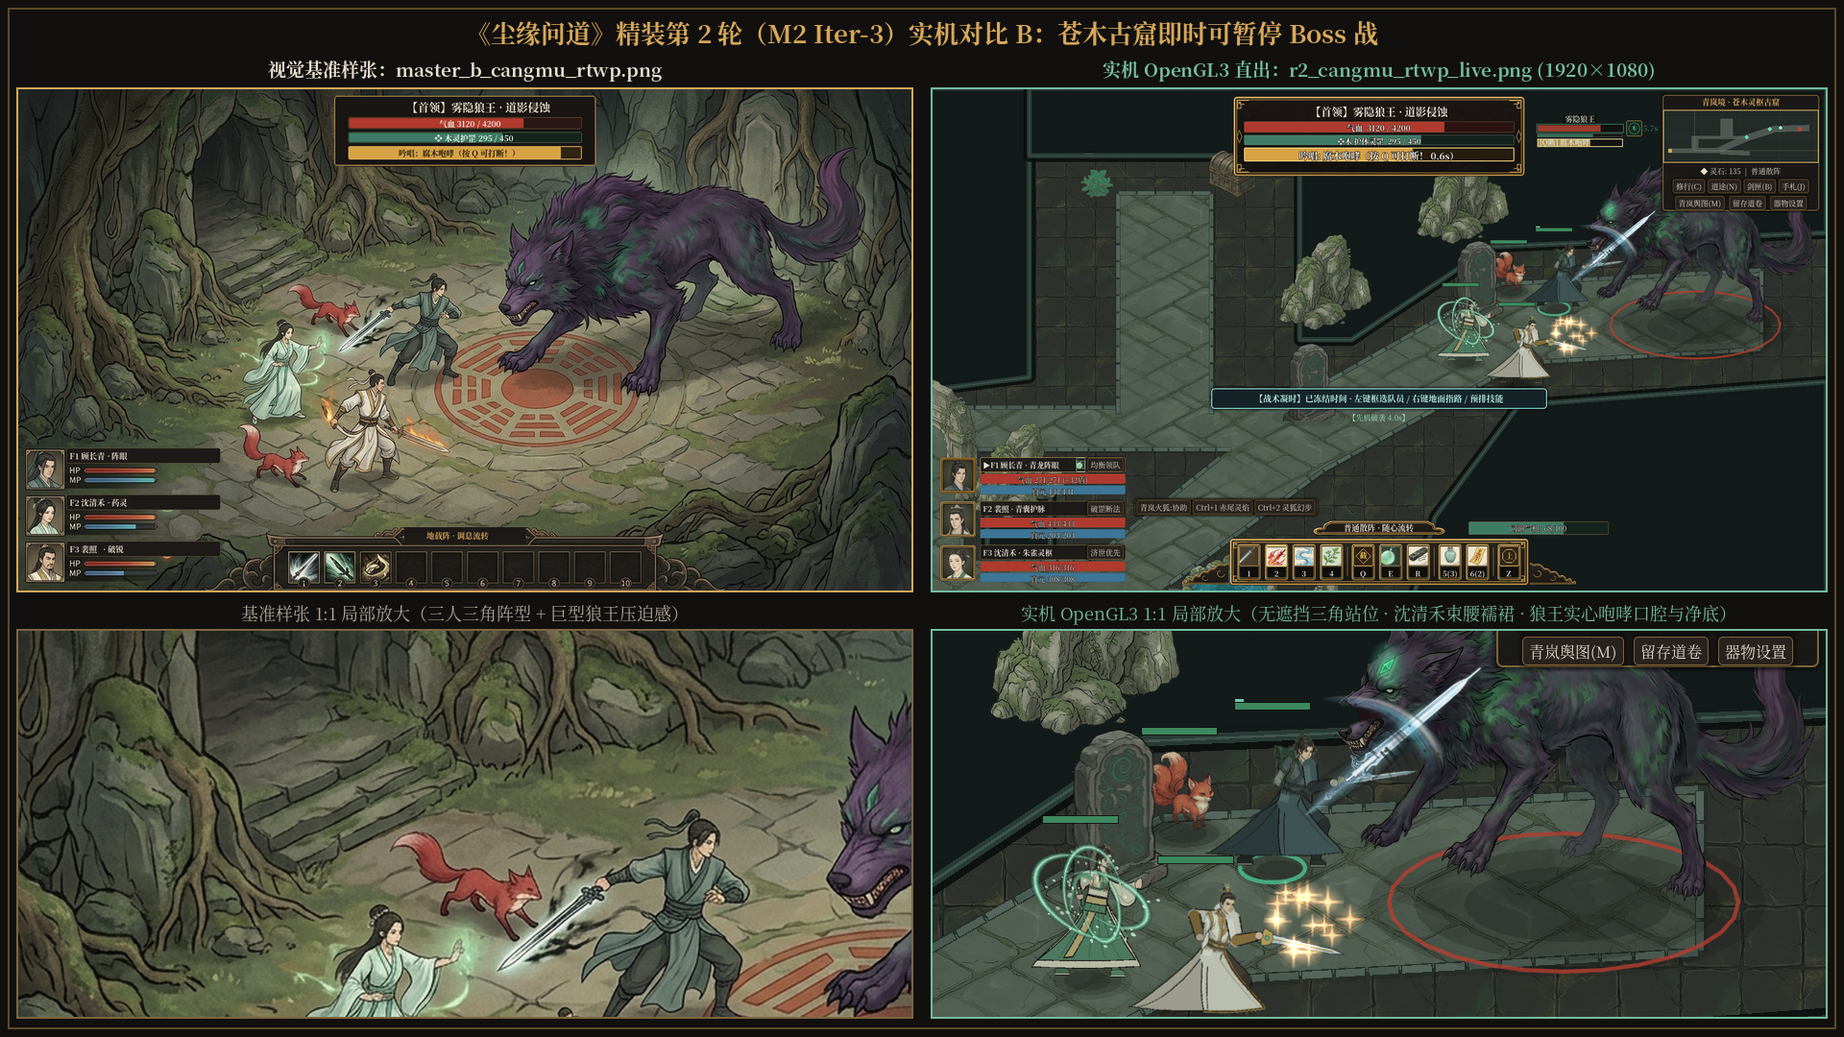
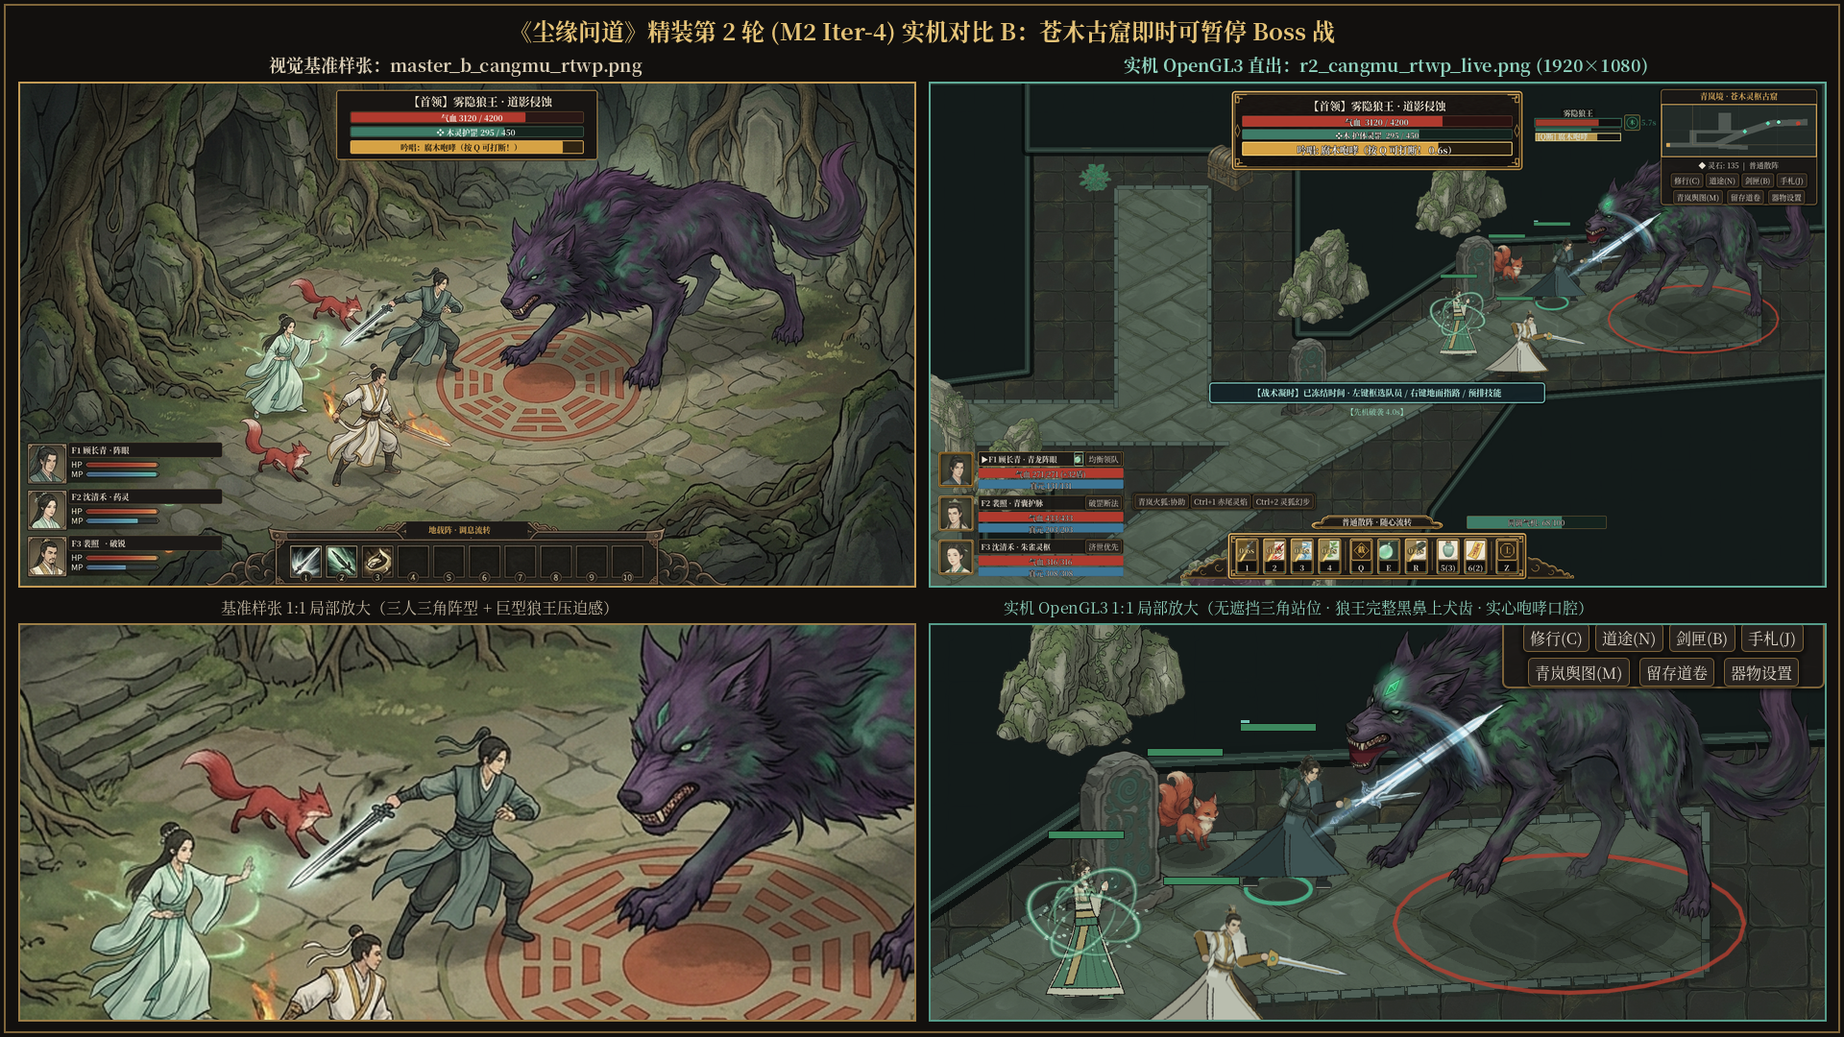
fix(r2): preserve Wolf King black nose & upper canines on cranium, seal roaring oral cavity, and remove Pei cape pinholes

diff --git a/tools/build_polish_r2_actors.py b/tools/build_polish_r2_actors.py
@@ -263,14 +263,19 @@ def segment_wolf_king_parts() -> dict[str, tuple[np.ndarray, tuple[float, float]
     chroma = arr.max(axis=2) - arr.min(axis=2)
 
     # Protect legitimate bright anatomical features inside the head:
-    # 1. Glowing pale-jade eye sclera (x: 1158..1188, y: 376..402)
+    # 1. Glowing pale-jade near & far eye sclerae (near: 1158..1188, 376..402; far: 1230..1239, 378..391)
     # 2. Glowing emerald forehead shard (x: 1184..1220, y: 314..368)
-    # 3. Ivory fangs & teeth ROI (x: 1135..1275, y: 420..520) inside the snout/jaw ink contour
+    # 3. Exact ivory fangs & teeth polygon inside the snout/jaw ink contour (zero exterior chin rim!)
     protect_eye_shard = np.zeros((H, W), dtype=bool)
     protect_eye_shard[376:402, 1158:1188] = True
+    protect_eye_shard[378:391, 1230:1239] = True
     protect_eye_shard[314:368, 1184:1220] = True
-    protect_fangs = np.zeros((H, W), dtype=bool)
-    protect_fangs[420:520, 1135:1275] = True
+    fang_poly_u8 = np.zeros((H, W), dtype=np.uint8)
+    cv2.fillPoly(fang_poly_u8, [np.array([
+        (1158, 439), (1188, 446), (1212, 472), (1250, 475),
+        (1247, 487), (1237, 495), (1200, 495), (1175, 476), (1158, 456),
+    ], dtype=np.int32)], 255)
+    protect_fangs = fang_poly_u8 > 0
 
     # 1a. Outer studio background: keep strict diff<24.5 inside mouth ROI so exterior air around snout is stripped
     #     without breaching tooth ink lines, while stripping wider pale halo (luma>184 & chroma<28) everywhere else!
@@ -351,21 +356,32 @@ def segment_wolf_king_parts() -> dict[str, tuple[np.ndarray, tuple[float, float]
         [(1082, 695), (980, 558)],
     ], 12), 4.0)
 
-    # Extend m_jaw & m_head past x=1340 AND extend m_head upper neck boundary up to y=110
-    # so 100% of upper dorsal neck ruff & snout/fangs are captured with ZERO dorsal neck V-notches!
+    # True anatomical mouth parting line strictly BELOW black nose (x=1225..1266, y=440..479) & upper canines (y=444..490)!
     m_jaw = poly_mask(sample_bezier_chain([
-        [(1122, 434), (1188, 428), (1275, 462)],
-        [(1275, 462), (1270, 526)],
-        [(1270, 526), (1132, 522)],
-    ], 10), 2.2)
+        [(1134, 452), (1162, 458), (1184, 473), (1205, 489)],
+        [(1205, 489), (1220, 486), (1252, 485)],
+        [(1252, 485), (1256, 522)],
+        [(1256, 522), (1192, 525), (1132, 514)],
+        [(1132, 514), (1134, 452)],
+    ], 12), 1.4)
+    m_jaw[:445, :] = 0.0
+
+    m_jaw_cut = poly_mask(sample_bezier_chain([
+        [(1134, 454), (1162, 460), (1184, 475), (1205, 491)],
+        [(1205, 491), (1220, 487), (1254, 486)],
+        [(1254, 486), (1258, 526)],
+        [(1258, 526), (1192, 528), (1130, 516)],
+        [(1130, 516), (1134, 454)],
+    ], 12), 1.0)
+    m_jaw_cut[:446, :] = 0.0
 
     m_shard = poly_mask([(1186, 314), (1216, 314), (1220, 366), (1184, 366)], 1.6)
 
     m_head = poly_mask(sample_bezier_chain([
         [(1012, 110), (1340, 110)],
-        [(1340, 110), (1340, 494)],
-        [(1340, 494), (1235, 484), (1186, 446)],
-        [(1186, 446), (1120, 456), (1008, 436)],
+        [(1340, 110), (1340, 504)],
+        [(1340, 504), (1276, 504), (1212, 506), (1165, 484)],
+        [(1165, 484), (1120, 458), (1008, 436)],
         [(1008, 436), (998, 345), (1002, 225), (1012, 110)],
     ], 16), 5.5)
 
@@ -430,14 +446,14 @@ def segment_wolf_king_parts() -> dict[str, tuple[np.ndarray, tuple[float, float]
         torso_a = np.maximum(torso_a, hull_torso * 248.0)
     torso_a[torso_a < 18.0] = 0.0
 
-    # Head cranium: clip dark_maw strictly to a tight curved upper-palate shadow behind upper teeth (never overhanging air!)
+    # Head cranium retains 100% of black canine nose, upper lip, and upper canines; lower_jaw carries ONLY lower mandible & lower teeth!
     head_rgb = rgba[..., :3].copy()
-    head_a = rgba[..., 3].astype(np.float32) * m_head * np.clip(1.0 - m_jaw, 0.0, 1.0)
+    head_a = rgba[..., 3].astype(np.float32) * m_head * np.clip(1.0 - m_jaw_cut, 0.0, 1.0)
     head_a[head_a < 16.0] = 0.0
     mouth_interior = poly_mask(sample_bezier_chain([
-        [(1148, 420), (1195, 422), (1236, 438)],
-        [(1236, 438), (1196, 445), (1148, 440)],
-    ], 10), 2.8)
+        [(1156, 442), (1196, 458), (1240, 476)],
+        [(1240, 476), (1196, 472), (1156, 452)],
+    ], 10), 2.2)
     dark_maw = np.zeros_like(rgba)
     dark_maw[..., 0] = 48
     dark_maw[..., 1] = 22
@@ -447,6 +463,15 @@ def segment_wolf_king_parts() -> dict[str, tuple[np.ndarray, tuple[float, float]
     maw_under = dark_maw.copy()
     alpha_over_np(maw_under, head_rgba)
     head_rgba = keep_largest_alpha_cc(clean_zero_alpha(maw_under), 12)
+
+    jaw_rgba = keep_largest_alpha_cc(
+        clean_zero_alpha(np.concatenate([rgba[..., :3], np.clip(rgba[..., 3].astype(np.float32) * m_jaw, 0, 255).astype(np.uint8)[..., None]], axis=2)),
+        10,
+    )
+    head_luma_chk = 0.299 * head_rgba[..., 0].astype(np.float32) + 0.587 * head_rgba[..., 1].astype(np.float32) + 0.114 * head_rgba[..., 2].astype(np.float32)
+    nose_opaque_dark = int(((head_rgba[445:476, 1230:1262, 3] >= 240) & (head_luma_chk[445:476, 1230:1262] < 85.0)).sum())
+    assert nose_opaque_dark >= 600, f"head_cranium lost black canine nose tip in [1230..1262, 445..476]: {nose_opaque_dark}px"
+    assert int(jaw_rgba[:445, :, 3].max()) == 0, f"lower_jaw bleeds into upper snout above y=445: max_alpha={int(jaw_rgba[:445, :, 3].max())}"
 
     def make_part(
         mask_f: np.ndarray,
@@ -480,7 +505,7 @@ def segment_wolf_king_parts() -> dict[str, tuple[np.ndarray, tuple[float, float]
         "hind_leg_near": make_part(m_hind_near, (468.0, 428.0), soften_top_px=16),
         "fore_leg_near": make_part(m_fore_near, (852.0, 432.0), soften_top_px=16),
         "head_cranium": make_part(np.ones((H, W), dtype=np.float32), (1076.0, 342.0), head_rgba),
-        "lower_jaw": make_part(m_jaw, (1134.0, 444.0)),
+        "lower_jaw": make_part(np.ones((H, W), dtype=np.float32), (1142.0, 456.0), jaw_rgba),
         "forehead_shard": make_part(m_shard, (1202.0, 340.0)),
     }
 
@@ -561,7 +586,7 @@ def render_wolf_king_cell(
         uy = (ry - 342.0) * bsy * sc_h[1]
         return (base_head[0] + ux * math.cos(rr) - uy * math.sin(rr), base_head[1] + ux * math.sin(rr) + uy * math.cos(rr))
 
-    p_jaw = head_rel(1134.0, 444.0, p_head, head_ang)
+    p_jaw = head_rel(1142.0, 456.0, p_head, head_ang)
     p_shard = head_rel(1202.0, 340.0, p_head, head_ang)
 
     def place(name: str, dst_pt: tuple[float, float], ang: float, sc_mult: tuple[float, float] = (1.0, 1.0), rgb_m: tuple[float, float, float] = (1.0, 1.0, 1.0), a_m: float = 1.0) -> None:
@@ -593,50 +618,56 @@ def render_wolf_king_cell(
         shade_m: float = 1.0,
     ) -> None:
         """
-        Draws a solid curved dark crimson-umber oral cavity bridging `head_cranium` upper palate
-        and rotated `lower_jaw` whenever `jaw_ang > 3.0`, composited underneath upper/lower fangs.
+        Draws a full-span curved dark crimson-umber oral cavity + tongue tucked 8-12px inside
+        `head_cranium` and rotated `lower_jaw` out behind the front canines (zero front cleft, zero overhang).
         """
-        if j_open_d <= 3.0:
+        if j_open_d <= 0.5:
             return
         j_tot_rad = math.radians(h_ang_d + j_open_d)
 
         def jaw_rel(rx: float, ry: float) -> tuple[float, float]:
-            ux = (rx - 1134.0) * bsx * sc_h[0]
-            uy = (ry - 444.0) * bsy * sc_h[1]
+            ux = (rx - 1142.0) * bsx * sc_h[0]
+            uy = (ry - 456.0) * bsy * sc_h[1]
             return (
                 base_jaw_pt[0] + ux * math.cos(j_tot_rad) - uy * math.sin(j_tot_rad),
                 base_jaw_pt[1] + ux * math.sin(j_tot_rad) + uy * math.cos(j_tot_rad),
             )
 
-        u0 = head_rel(1136.0, 430.0, base_head_pt, h_ang_d, sc_h)
-        u1 = head_rel(1184.0, 435.0, base_head_pt, h_ang_d, sc_h)
-        u2 = head_rel(1224.0, 452.0, base_head_pt, h_ang_d, sc_h)
-        l2 = jaw_rel(1218.0, 484.0)
-        l1 = jaw_rel(1182.0, 475.0)
-        l0 = jaw_rel(1136.0, 454.0)
-        # Concave cheek/throat arch recessed slightly behind front canines so zero maw overhangs air
-        throat_in = (
-            0.5 * (u2[0] + l2[0]) - 0.18 * (u2[0] - u0[0]),
-            0.5 * (u2[1] + l2[1]),
-        )
+        u0 = head_rel(1140.0, 444.0, base_head_pt, h_ang_d, sc_h)
+        u1 = head_rel(1196.0, 464.0, base_head_pt, h_ang_d, sc_h)
+        u2 = head_rel(1248.0, 477.0, base_head_pt, h_ang_d, sc_h)
+        l2 = jaw_rel(1244.0, 488.0)
+        l1b = jaw_rel(1218.0, 502.0)
+        l1 = jaw_rel(1194.0, 492.0)
+        l0b = jaw_rel(1170.0, 471.0)
+        l0 = jaw_rel(1140.0, 459.0)
+        throat_in = (0.5 * (u2[0] + l2[0]), 0.5 * (u2[1] + l2[1]))
 
         maw_im = Image.new("RGBA", (W2, H2), (0, 0, 0, 0))
         md = ImageDraw.Draw(maw_im)
         maw_pts = sample_bezier_chain([
             [u0, u1, u2],
             [u2, throat_in, l2],
-            [l2, l1, l0],
+            [l2, l1b, l1],
+            [l1, l0b, l0],
             [l0, u0],
-        ], 12)
-        c_outer = (int(44 * shade_m), int(18 * shade_m), int(24 * shade_m), 255)
-        c_inner = (int(74 * shade_m), int(26 * shade_m), int(34 * shade_m), 245)
+        ], 14)
+        c_outer = (int(46 * shade_m), int(18 * shade_m), int(24 * shade_m), 255)
+        c_mid = (int(68 * shade_m), int(24 * shade_m), int(32 * shade_m), 255)
+        c_tongue = (int(96 * shade_m), int(36 * shade_m), int(44 * shade_m), 255)
         md.polygon(maw_pts, fill=c_outer, outline=(22, 12, 16, 255))
-        # Subtle inner crimson tongue/palate ridge inside deep maw
-        t_pts = sample_bezier_chain([
-            [l0, ((l0[0] + l1[0]) * 0.5, (l0[1] + l1[1]) * 0.5 - 4.0), ((l1[0] + l2[0]) * 0.5, (l1[1] + l2[1]) * 0.5 - 3.0)],
-            [((l1[0] + l2[0]) * 0.5, (l1[1] + l2[1]) * 0.5 - 3.0), l1, l0],
+        m_in_pts = sample_bezier_chain([
+            [((u0[0] + l0[0]) * 0.5, (u0[1] + l0[1]) * 0.5), ((u1[0] + l1[0]) * 0.5, (u1[1] + l1[1]) * 0.5 - 3.0), (throat_in[0] - 5.0, throat_in[1])],
+            [(throat_in[0] - 5.0, throat_in[1]), l1, ((u0[0] + l0[0]) * 0.5, (u0[1] + l0[1]) * 0.5)],
         ], 10)
-        md.polygon(t_pts, fill=c_inner)
+        md.polygon(m_in_pts, fill=c_mid)
+        t_tip = (0.35 * u2[0] + 0.65 * l2[0] - 4.0, 0.35 * u2[1] + 0.65 * l2[1] - 2.0)
+        t_pts = sample_bezier_chain([
+            [l0, ((l0[0] + l1[0]) * 0.5, (l0[1] + l1[1]) * 0.5 - 5.0), t_tip],
+            [t_tip, l1b, l1],
+            [l1, l0b, l0],
+        ], 10)
+        md.polygon(t_pts, fill=c_tongue)
         alpha_over_np(canvas, np.asarray(maw_im))
 
     if is_down:
@@ -672,7 +703,7 @@ def render_wolf_king_cell(
         ne_head_pt = (p_head[0] - 28.0, p_head[1] - 24.0)
         ne_head_ang = head_ang - 10.0
         ne_head_sc = (0.88, 0.90)
-        ne_jaw_pt = head_rel(1134.0, 444.0, ne_head_pt, ne_head_ang, ne_head_sc)
+        ne_jaw_pt = head_rel(1142.0, 456.0, ne_head_pt, ne_head_ang, ne_head_sc)
         place("fore_leg_far", (p_ff[0] + ff_off[0] - 18.0, p_ff[1] + ff_off[1] - 24.0), float(pose.get("ff_ang", 0.0)) - 6.0, sc_mult=(0.90, 0.90), rgb_m=(0.76, 0.77, 0.82))
         draw_open_oral_cavity(ne_head_pt, ne_jaw_pt, ne_head_ang, jaw_ang * 0.65, ne_head_sc, 0.84)
         place("lower_jaw", ne_jaw_pt, ne_head_ang + jaw_ang * 0.65, sc_mult=ne_head_sc, rgb_m=(0.82, 0.82, 0.86))
@@ -764,8 +795,8 @@ def build_wolf_king_sheet() -> dict[str, Any]:
 
     # Row 4: attack_1 (5 frames — rearing razor-claw cleave; dorsal mane <= 368px < head_top_px=372!)
     atk1 = [
-        {"root_dx": -12.0, "root_dy": -8.0, "torso_ang": -13.5, "fn_ang": -52.0, "fn_dx": 14.0, "fn_dy": -34.0, "ff_ang": -18.0, "ff_dy": -14.0, "hn_ang": 10.0, "head_ang": -8.0, "jaw_ang": 16.0, "tail_ang": 16.0, "shard_glow": 0.55},
-        {"root_dx": -4.0, "root_dy": -11.0, "torso_ang": -15.0, "fn_ang": -64.0, "fn_dx": 22.0, "fn_dy": -44.0, "ff_ang": -24.0, "ff_dy": -18.0, "hn_ang": 14.0, "head_ang": -6.0, "jaw_ang": 22.0, "tail_ang": 20.0, "shard_glow": 0.75},
+        {"root_dx": -12.0, "root_dy": -8.0, "torso_ang": -13.5, "fn_ang": -44.0, "fn_dx": 14.0, "fn_dy": -24.0, "ff_ang": 4.0, "ff_dy": -2.0, "hn_ang": 10.0, "head_ang": -8.0, "jaw_ang": 16.0, "tail_ang": 16.0, "shard_glow": 0.55},
+        {"root_dx": -4.0, "root_dy": -11.0, "torso_ang": -15.0, "fn_ang": -48.0, "fn_dx": 20.0, "fn_dy": -24.0, "ff_ang": 6.0, "ff_dy": -2.0, "hn_ang": 14.0, "head_ang": -6.0, "jaw_ang": 22.0, "tail_ang": 20.0, "shard_glow": 0.75},
         {"root_dx": 20.0, "root_dy": -4.0, "torso_ang": 7.5, "fn_ang": -28.0, "fn_dx": 38.0, "fn_dy": -14.0, "fn_scale": (1.08, 1.04), "ff_ang": 16.0, "hn_ang": -22.0, "head_ang": 6.0, "head_dx": 12.0, "jaw_ang": 18.0, "tail_ang": -12.0, "shard_glow": 0.65},
         {"root_dx": 14.0, "root_dy": 0.0, "torso_ang": 9.0, "fn_ang": 12.0, "fn_dx": 18.0, "ff_ang": 10.0, "hn_ang": -16.0, "head_ang": 4.0, "jaw_ang": 8.0, "tail_ang": -8.0, "shard_glow": 0.35},
         {"root_dx": 4.0, "root_dy": -1.0, "torso_ang": 3.0, "fn_ang": 4.0, "hn_ang": -6.0, "head_ang": 1.0, "jaw_ang": 4.0, "tail_ang": 2.0, "shard_glow": 0.22},
@@ -882,7 +913,7 @@ def extract_party_graft_parts() -> dict[str, dict[str, Any]]:
     pf_rgb = np.asarray(Image.open(os.path.join(REPO_ROOT, "assets_src/sprites/char_ref_party_pets_raw.jpg")).convert("RGB"))
     pb_rgb = np.asarray(Image.open(os.path.join(REPO_ROOT, "assets_src/sprites/char_ref_party_back_raw.jpg")).convert("RGB"))
 
-    def matte_plate(arr: np.ndarray) -> np.ndarray:
+    def matte_plate(arr: np.ndarray, kill_interior_pockets: bool = True) -> np.ndarray:
         af = arr.astype(np.float32)
         bg = np.median(np.concatenate([af[0], af[-1], af[:, 0], af[:, -1]], axis=0), axis=0)
         bc = ((np.linalg.norm(af - bg, axis=2) < 22.5) & (af.mean(axis=2) > 198.0)).astype(np.uint8)
@@ -890,11 +921,12 @@ def extract_party_graft_parts() -> dict[str, dict[str, Any]]:
         ext = set(lbl[0, :]) | set(lbl[-1, :]) | set(lbl[:, 0]) | set(lbl[:, -1])
         ext.discard(0)
         fg = (~np.isin(lbl, list(ext))).astype(np.float32)
-        for lid in range(1, nl):
-            if lid not in ext:
-                pts_y, _ = np.where(lbl == lid)
-                if len(pts_y) < 180 and af[lbl == lid].mean() > 214.0:
-                    fg[lbl == lid] = 0.0
+        if kill_interior_pockets:
+            for lid in range(1, nl):
+                if lid not in ext:
+                    pts_y, _ = np.where(lbl == lid)
+                    if len(pts_y) < 180 and af[lbl == lid].mean() > 214.0:
+                        fg[lbl == lid] = 0.0
         fg_b = cv2.GaussianBlur(fg, (3, 3), 0.50)
         al = np.clip((fg_b - 0.12) / 0.82 * 255.0, 0.0, 255.0).astype(np.uint8)
         rgb = af.copy()
@@ -905,6 +937,7 @@ def extract_party_graft_parts() -> dict[str, dict[str, Any]]:
 
     pf = matte_plate(pf_rgb)
     pb = matte_plate(pb_rgb)
+    pb_cape = matte_plate(pb_rgb, kill_interior_pockets=False)
 
     def sub_poly(plate: np.ndarray, box: tuple[int, int, int, int], poly_rel: list[tuple[float, float]] | None = None, feather: float = 1.8) -> np.ndarray:
         x0, y0, x1, y1 = box
@@ -949,7 +982,7 @@ def extract_party_graft_parts() -> dict[str, dict[str, Any]]:
     pei_head_b = sub_poly(pb, (672, 100, 760, 224), [(0, 0), (86, 0), (86, 120), (0, 120)], 1.5)
     pei_chest_f = sub_poly(pf, (640, 206, 770, 366), [(14, 0), (118, 0), (128, 36), (108, 156), (24, 156), (4, 36)], 2.2)
     pei_cape_b = sub_poly(
-        pb,
+        pb_cape,
         (602, 206, 796, 584),
         sample_bezier_chain([
             [(34, 0), (166, 0)],
@@ -2980,33 +3013,66 @@ def run_self_audit() -> None:
                                 assert interior_holes == 0, (
                                     f"Enclosed midriff/torso/skirt hole in shen_qinghe cell ({r},{c}) at y={my} [{best_l}..{best_r}]: {interior_holes}px"
                                 )
+                        elif aid == "pei_zhao" and r in (1, 3):
+                            # Zero interior white-silk pinholes in Pei Zhao dorsal cape_b (`idle_ne`, `run_ne`)!
+                            bg_p = (ca <= 32).astype(np.uint8)
+                            nl_p, lbl_p, st_p, _ = cv2.connectedComponentsWithStats(bg_p, connectivity=8)
+                            ext_p = set(lbl_p[0, :]) | set(lbl_p[-1, :]) | set(lbl_p[:, 0]) | set(lbl_p[:, -1])
+                            ext_p.discard(0)
+                            for plid in range(1, nl_p):
+                                if plid not in ext_p:
+                                    px_h, py_h, pw_h, ph_h, parea = [int(v) for v in st_p[plid]]
+                                    assert not (py_h < fy - 36 and (parea > 2 or px_h >= 162)), (
+                                        f"Interior dorsal cape_b pinhole in pei_zhao cell ({r},{c}): area={parea} bbox=({px_h},{py_h},{pw_h},{ph_h})"
+                                    )
                     elif aid == "boss_mist_wolf_king":
-                        # Surgical Fix 3 Assertions on boss_mist_wolf_king:
+                        # Surgical Fix 3 & Iter-4 Snout/Maw Assertions on boss_mist_wolf_king:
                         # (a) Zero pale cream studio-background fringes ((ca > 20) & (luma > 184) & (chroma < 28)) across body/legs/tail/neck!
                         c_rgb = cell[..., :3].astype(np.float32)
                         c_luma = 0.299 * c_rgb[..., 0] + 0.587 * c_rgb[..., 1] + 0.114 * c_rgb[..., 2]
                         c_chr = c_rgb.max(axis=2) - c_rgb.min(axis=2)
                         x_max_c = int(cx_solid.max())
-                        # Exclude only the right-side head snout/eye/fangs zone (`x >= x_max_c - 125`)
                         body_zone = np.ones((ch, cw), dtype=bool)
                         body_zone[:, max(0, x_max_c - 125) :] = False
                         cream_rem = int(((ca > 20) & body_zone & (c_luma > 184.0) & (c_chr < 28.0)).sum())
                         assert cream_rem == 0, (
                             f"Pale cream studio-background fringe remaining on Wolf body/legs/neck in cell ({r},{c}): {cream_rem}px"
                         )
-                        # (b) Zero enclosed holes in dorsal neck (`y < fy - 210`) or roaring mouth (`x >= x_max_c - 85, y < fy - 145`)!
-                        bg_w = (ca <= 16).astype(np.uint8)
-                        nl_wb, lbl_wb, st_wb, _ = cv2.connectedComponentsWithStats(bg_w, connectivity=8)
-                        ext_wb = set(lbl_wb[0, :]) | set(lbl_wb[-1, :]) | set(lbl_wb[:, 0]) | set(lbl_wb[:, -1])
-                        ext_wb.discard(0)
-                        for wlid in range(1, nl_wb):
-                            if wlid not in ext_wb:
-                                wx, wy, ww, wh, warea = [int(v) for v in st_wb[wlid]]
-                                assert not (wy < fy - 210 and warea > 3), (
-                                    f"Enclosed dorsal-neck hole in boss_mist_wolf_king cell ({r},{c}): area={warea} bbox=({wx},{wy},{ww},{wh})"
-                                )
-                                assert not (wx >= x_max_c - 85 and wy < fy - 196 and warea > 4), (
-                                    f"Enclosed roaring-jaw hole in boss_mist_wolf_king cell ({r},{c}): area={warea} bbox=({wx},{wy},{ww},{wh})"
+                        # (b) Zero enclosed interior background holes (`wy < fy - 140` on all standing/rearing/roaring/biting/down cells;
+                        #     `wy < fy - 155` above rotary-gallop mid-air limb/tail loops) at BOTH alpha<=16 AND alpha<=80 across ALL 40 cells!
+                        y_hole_lim = (fy - 155) if r in (2, 3) else (fy - 140)
+                        for thr_wh in (16, 80):
+                            bg_w = (ca <= thr_wh).astype(np.uint8)
+                            nl_wb, lbl_wb, st_wb, _ = cv2.connectedComponentsWithStats(bg_w, connectivity=8)
+                            ext_wb = set(lbl_wb[0, :]) | set(lbl_wb[-1, :]) | set(lbl_wb[:, 0]) | set(lbl_wb[:, -1])
+                            ext_wb.discard(0)
+                            for wlid in range(1, nl_wb):
+                                if wlid not in ext_wb:
+                                    wx, wy, ww, wh, warea = [int(v) for v in st_wb[wlid]]
+                                    if wy < y_hole_lim and (wy + wh) < fy - 100:
+                                        assert warea <= 3, (
+                                            f"Enclosed interior hole (alpha<={thr_wh}) in boss_mist_wolf_king cell ({r},{c}): area={warea} bbox=({wx},{wy},{ww},{wh})"
+                                        )
+                        # (c) Across all open-jaw / roaring / biting cells, assert min_vertical_alpha >= 220 across vertical scanlines spanning upper snout to lower jaw!
+                        if (r == 4 and c in (0, 1, 2)) or (r == 5 and c in (0, 1, 2)) or (r == 6 and c in (0, 1, 2, 3, 4, 5)) or (r == 7 and c in (0, 1)):
+                            x_nose, y_nose = -1, -1
+                            for yn in range(fy - 215, fy - 105):
+                                xs_n = np.where((ca[yn, :] >= 240) & (c_luma[yn, :] < 50.0))[0]
+                                if len(xs_n) > 0:
+                                    xr_n = int(xs_n.max())
+                                    if xr_n >= 40 and int(ca[yn - 6 : yn + 12, xr_n - 26 : xr_n - 4].min()) >= 235:
+                                        if xr_n > x_nose:
+                                            x_nose, y_nose = xr_n, yn
+                            assert x_nose > 0, f"Failed to locate dark canine nose tip in boss_mist_wolf_king cell ({r},{c})"
+                            my0 = max(0, y_nose - 4)
+                            my1 = min(ch, y_nose + 38)
+                            for mx in range(x_nose - 30, x_nose - 10):
+                                col_a = ca[my0:my1, mx]
+                                sy_op = np.where(col_a >= 235)[0]
+                                assert len(sy_op) >= 10, f"Missing snout/jaw column in boss_mist_wolf_king cell ({r},{c}) at x={mx}"
+                                min_va = int(col_a[int(sy_op.min()) : int(sy_op.max()) + 1].min())
+                                assert min_va >= 220, (
+                                    f"Front-mouth cleft/wedge in boss_mist_wolf_king cell ({r},{c}) at x={mx} (x_nose={x_nose}): min_vertical_alpha={min_va} < 220"
                                 )
 
         if aid == "boss_mist_wolf_king":
